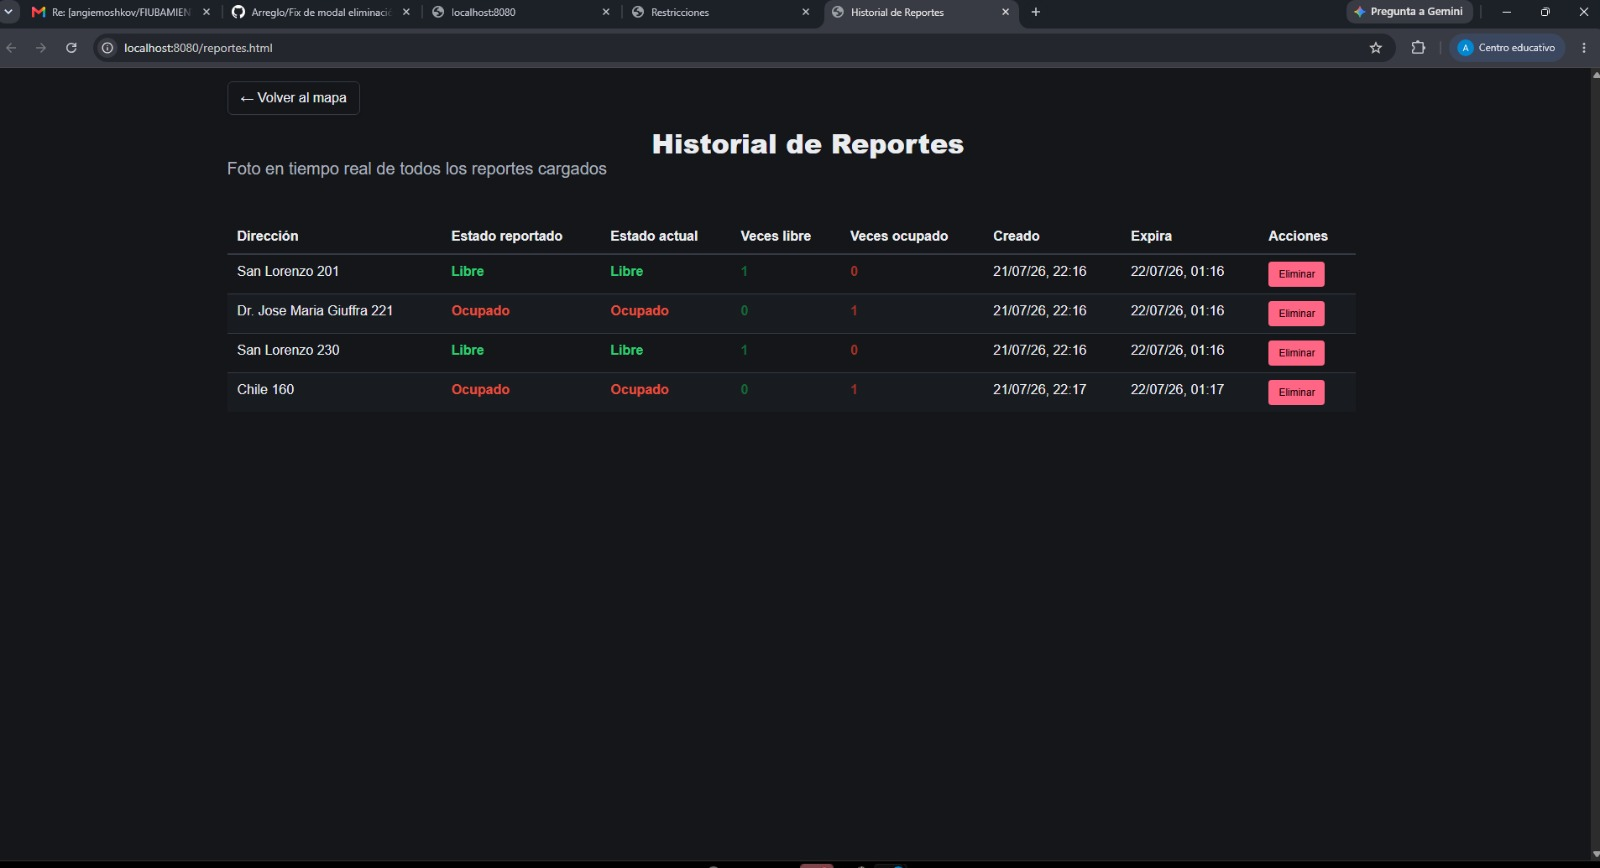
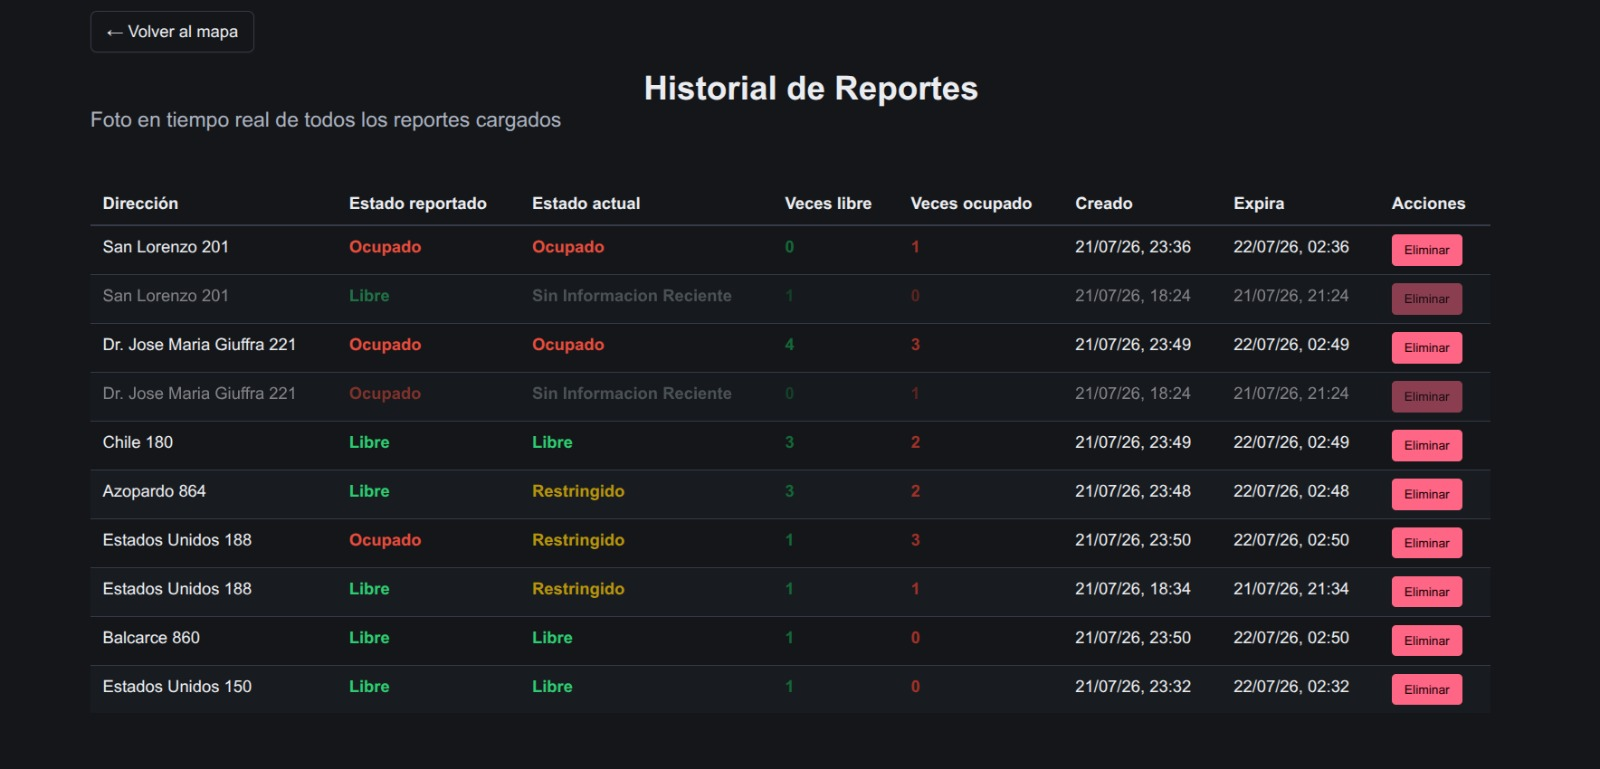
Agrega capturas nuevas al README

diff --git a/README.md b/README.md
@@ -191,6 +191,16 @@ Cada spot devuelve un campo `estado` calculado en el backend según estas reglas
 ### Restricciones
 ![Restricciones](docs/screenshots/Restricciones.jpeg)
 
+### Popup de eliminación
+![confirmar eliminacion](docs/screenshots/confirmar%20eliminacion.jpeg)
+
+### Alert de spot movido
+![el spot se movio](docs/screenshots/el%20spor%20se%20movio.jpeg)
+
+### Alert de retricción vigente
+![restriccion vigente](docs/screenshots/restriccion%20vigente.jpeg)
+
+
 ---
 
 ## 👥 Integrantes
